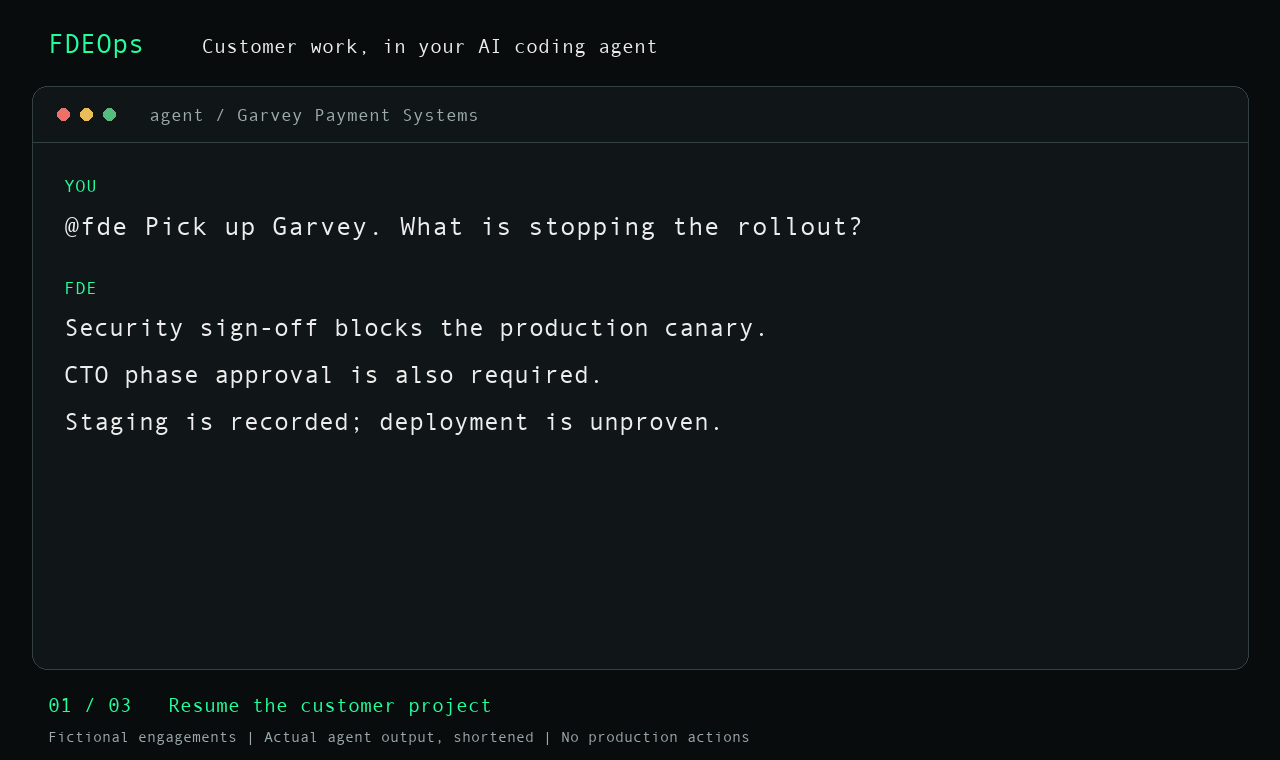
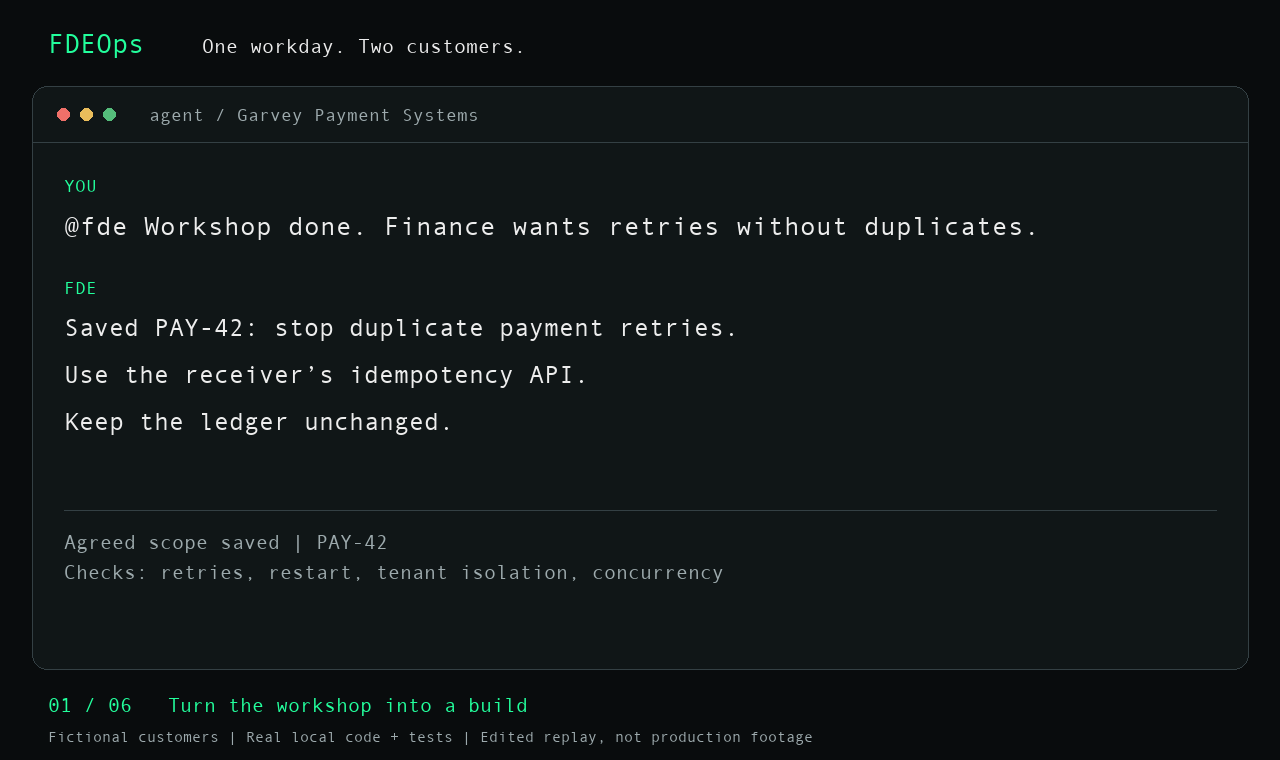
Show a full FDE workday with interruption and tested implementation
Expand the README animation into one coherent FDE workday: save the workshop scope, implement PAY-42, preserve a checkpoint before another customer meeting, return to verify the change, assess rollout readiness and save the next action.

The run actually edited a local retry adapter, saved and recovered Garvey records, read Kesterman without changing its records, and improved the supplied local tests from 3/7 to 7/7. The GIF uses shortened responses and evidence receipts. Fictional customers, staged playback, mock receiver and pending production approval are explicit. Include the runnable local fixture and full captured answer; no claim of production deployment or cross-session recovery.

Validation: independent trace and record comparison, independent seven-test fixture rerun, Chromium playback and frame inspection, repository check suite. No runtime feature or npm version change.

diff --git a/media/workday-fixture/retry.test.js b/media/workday-fixture/retry.test.js
@@ -1,0 +1,18 @@
+import test from 'node:test';
+import assert from 'node:assert/strict';
+import { createHandler } from './retry.js';
+function receiver() {
+ const rows = new Map(); let fail=false;
+ return { rows, failNext(){fail=true;},
+ async insert(event){if(fail){fail=false;throw Error('receiver unavailable');} const key=String(rows.size);rows.set(key,event);return {created:true};},
+ async insertOnce(key,event){if(fail){fail=false;throw Error('receiver unavailable');}if(rows.has(key))return {created:false};rows.set(key,event);return {created:true};}
+ };
+}
+const event={tenantId:'eu-retail',eventId:'evt-1042',amount:1200};
+test('first delivery writes one payment',async()=>{const s=receiver();await createHandler(s)(event);assert.equal(s.rows.size,1);});
+test('retry after a lost acknowledgement does not duplicate',async()=>{const s=receiver(),h=createHandler(s);await h(event);await h(event);assert.equal(s.rows.size,1);});
+test('deduplication survives handler restart',async()=>{const s=receiver();await createHandler(s)(event);await createHandler(s)(event);assert.equal(s.rows.size,1);});
+test('different tenants can use the same event ID',async()=>{const s=receiver(),h=createHandler(s);await h(event);await h({...event,tenantId:'uk-retail'});assert.equal(s.rows.size,2);});
+test('concurrent redelivery creates one entry',async()=>{const s=receiver(),h=createHandler(s);await Promise.all([h(event),h(event)]);assert.equal(s.rows.size,1);});
+test('receiver failure can be retried',async()=>{const s=receiver(),h=createHandler(s);s.failNext();await assert.rejects(h(event));await h(event);assert.equal(s.rows.size,1);});
+test('missing identity is rejected before write',async()=>{const s=receiver();await assert.rejects(createHandler(s)({amount:1200}));assert.equal(s.rows.size,0);});

diff --git a/bin/check.js b/bin/check.js
@@ -194,7 +194,7 @@ if (read('package.json').includes('postinstall')) {
 }
 
 const readme = read('README.md')
-if (!readme.includes('media/chat-demo.gif') || !readme.includes('media/chat-demo.md') || !readme.includes('Fictional customer records')) {
+if (!readme.includes('media/chat-demo.gif') || !readme.includes('media/chat-demo.md') || !readme.includes('Fictional customers')) {
   fail('README must include the chat walkthrough, text alternative and fictional-record disclosure')
 } else if (['chat-demo.gif', 'chat-demo.png', 'chat-demo.json', 'chat-demo.md', 'render-chat-demo.py'].some(name => !fs.existsSync(path.join(root, 'media', name)))) {
   fail('chat walkthrough must include rendered assets, text, source and renderer')

diff --git a/media/workday-fixture/retry.js b/media/workday-fixture/retry.js
@@ -1,0 +1,12 @@
+export function createHandler(store) {
+  return async event => {
+    const { tenantId, eventId } = event ?? {};
+    if (typeof tenantId !== 'string' || !tenantId.trim() ||
+        typeof eventId !== 'string' || !eventId.trim()) {
+      throw new Error('tenantId and eventId are required');
+    }
+    // The receiver owns atomic deduplication across retries and handler restarts.
+    const key = JSON.stringify([tenantId, eventId]);
+    return store.insertOnce(key, event);
+  };
+}

diff --git a/media/render-chat-demo.py b/media/render-chat-demo.py
@@ -13,7 +13,7 @@ def font(size): return ImageFont.truetype(FONT,size)
 def draw_scene(scene,index,reveal=True,typed=None):
  im=Image.new('RGB',(W,H),BG);d=ImageDraw.Draw(im)
  d.text((48,28),'FDEOps',font=font(27),fill=GREEN)
- d.text((202,34),'Customer work, in your AI coding agent',font=font(20),fill=FG)
+ d.text((202,34),'One workday. Two customers.',font=font(20),fill=FG)
  d.rounded_rectangle((32,86,1248,669),radius=15,fill=PANEL,outline='#344044',width=1)
  for x,c in [(57,'#ef7069'),(80,'#eabd5b'),(103,'#55bd7b')]:d.ellipse((x,108,x+12,120),fill=c)
  d.text((149,104),'agent / '+scene['customer'],font=font(18),fill=MUTED)
@@ -31,16 +31,22 @@ def draw_scene(scene,index,reveal=True,typed=None):
     assert y<625, (scene['customer'],y)
     d.text((64,y),line,font=font(25),fill=FG);y+=35
    y+=12
- elif typed is None:d.text((64,y),'Reading the customer record...',font=font(23),fill=MUTED)
- d.text((48,693),f"{index+1:02d} / 03   {scene['label']}",font=font(20),fill=GREEN)
- d.text((48,728),'Fictional engagements | Actual agent output, shortened | No production actions',font=font(15),fill=MUTED)
+  if scene.get('receipt'):
+   y=max(y+12,510)
+   d.line((64,y,1216,y),fill='#344044');y+=20
+   for line in scene['receipt'].split('\n'):
+    assert y<639, (scene['customer'],y)
+    d.text((64,y),line,font=font(20),fill=MUTED);y+=30
+ elif typed is None:d.text((64,y),scene.get('activity','Reading the customer record...'),font=font(23),fill=MUTED)
+ d.text((48,693),f"{index+1:02d} / {len(scenes):02d}   {scene['label']}",font=font(20),fill=GREEN)
+ d.text((48,728),'Fictional customers | Real local code + tests | Edited replay, not production footage',font=font(15),fill=MUTED)
  return im
 scenes=json.loads((ROOT/'media/chat-demo.json').read_text())['scenes']
 frames=[];dur=[]
 for n,s in enumerate(scenes):
  for end in range(4,len(s['prompt']),5):
   frames.append(draw_scene(s,n,False,s['prompt'][:end]));dur.append(60)
- frames.extend([draw_scene(s,n,False),draw_scene(s,n)]);dur.extend([500,8500])
+ frames.extend([draw_scene(s,n,False),draw_scene(s,n)]);dur.extend([350,s.get('hold_ms',6000)])
 
 draw_scene(scenes[0],0).save(ROOT/'media/chat-demo.png')
 frames[0].save(ROOT/'media/chat-demo.gif',save_all=True,append_images=frames[1:],duration=dur,loop=0,optimize=True)

diff --git a/media/chat-demo.md b/media/chat-demo.md
@@ -1,37 +1,91 @@
-# FDEOps in a conversation
+# One workday. Two customers.
 
-Use natural language in your AI coding agent. FDEOps retrieves the selected customer's context and helps prepare the next decision.
+An FDE turns a payments workshop into a scoped code change, pauses for a freight-customer meeting, then resumes testing and prepares the next release decision.
 
-This is a terminal-style replay, not a screen recording. It uses actual agent responses to fictional customer records, shortened in the GIF. It shows read-only preparation and temporary customer selection, not a production deployment or a persistent workspace switch.
+The GIF is a terminal-style replay of a scripted agent run, not a screen recording or customer production footage. The code edit, local tests, record saves and customer-context reads actually ran. Customer records are fictional. Responses are shortened; typing and pauses are staged.
 
-## Conversation
+## 1. Turn the workshop into a build
 
-### Resume the project
+> @fde Workshop done. Finance wants retries without duplicates.
 
-> @fde Pick up Garvey. What is stopping the rollout?
+Saved PAY-42: stop duplicate payment retries. Use the receiver’s idempotency API. Keep the ledger unchanged.
 
-In the fictional snapshot, security sign-off blocks the production canary; CTO phase approval is also required. Staging is recorded, but deployment is unproven. The finance outcome remains unmeasured and unaccepted.
+Agreed scope saved | PAY-42. Checks: retries, restart, tenant isolation, concurrency.
 
-### Prepare the release review
+## 2. Build, then preserve the next step
 
-> @fde What should I take to the release review?
+> @fde Start PAY-42. I have a customer meeting in five minutes.
 
-Bring the staging-demo evidence, security-ticket status, CTO approval status, and rollback plan. Flag missing trial measurements. Acceptance requires a full week of EU failures replayed, zero manual reprocessing in the audit log, and June Porter’s written acceptance - not merely the proposed one-night trial.
+Changed retry.js: validate identity and deduplicate by tenant + event ID. Checkpoint saved. Next: run the full local test suite.
 
-### Switch customers
+Baseline: 3 passed, 4 failed. Change saved | Post-change verification pending.
 
-> @fde Switch to Kesterman. What needs my attention?
+## 3. Handle the other customer’s meeting
 
-Temporary read-only selection; no persistent switch or saves. The snapshot prioritizes Karen’s write-back race review and Denise’s scope/demo decision: three additions, unchanged timeline. Preserve the carrier-assignment macro and Nashville workaround. Sponsor dissatisfaction is unverified; production requires Denise’s approval. Reported 98.8% parity does not establish acceptance.
+> @fde Switch to Kesterman. Brief me for Denise’s meeting.
 
-## Source and reproduction
+Decision for Denise: defer Nashville role views, or trade scope and timeline. Reconfirm the demo.
 
-The responses were captured with Codex CLI 0.154.0 using FDEOps 5.1.10 and the repository's [Garvey](../examples/garvey-payments/) and [Kesterman](../examples/kesterman-freight/) records as historical scenario snapshots. The agent used sanitized CLI packets; no customer system was connected. An initial record-path lookup failed and was corrected before the responses shown here. Tool calls are omitted; typing and pauses are staged for readability. This is one illustrative run, not a reliability benchmark.
+Kesterman context loaded | Read-only, temporary selection. Garvey’s unfinished work preserved.
 
-The displayed text is in [chat-demo.json](chat-demo.json). With Python, Pillow and a local monospace font:
+## 4. Return to the exact next action
+
+> @fde Back to Garvey. Continue where we stopped.
+
+Recovered PAY-42 and confirmed the code is unchanged. All 7 local tests pass. The customer receiver still needs a staging check.
+
+Tests: 7 | Passed: 7 | Failed: 0. Environment: local receiver mock.
+
+## 5. Separate passing tests from rollout approval
+
+> @fde Tests pass. Can we roll this out?
+
+Not yet. Replay retries against the durable receiver on customer staging. Security, CTO approval and finance acceptance are still pending.
+
+Local checks passed | Customer staging not tested. No production action taken.
+
+## 6. Leave tomorrow’s work ready to resume
+
+> @fde Save where we are for tomorrow.
+
+Saved the implementation, test evidence and blockers. Next: arrange the authorised staging replay.
+
+Checkpoint saved and verified. Saved next action: arrange staging replay.
+
+## Full captured answer
+
+Fictional scenario  -  edited terminal replay. Local work actually performed using the FDEOps skill.
+
+1. Saved PAY-42: tenant-scoped `insertOnce`, no ledger redesign. Checks cover duplicates, restart, tenant isolation, concurrency, failure retry, and missing identity. Production requires security, CTO approval, and finance acceptance.
+
+2. Baseline: 3/7 passed. Implemented identity validation and tenant-scoped `insertOnce` in `retry.js`. Saved a recoverable checkpoint before post-change verification; next action recorded: run the full local suite.
+
+3. Read Kesterman through temporary command scope; no customer writes or persistent binding changes. Denise must decide whether to defer Nashville role views or trade scope/timeline, and reconfirm the demo.
+
+4. Recovered Garvey’s checkpoint through CLI; confirmed preserved file hashes. Full `npm test`: 7/7 passed. The in-memory receiver mock does not verify durable persistence or customer integration.
+
+5. No rollout: only local mocked evidence exists; staging and production access are unavailable. Next check: durable-receiver staging replay, followed by security/CTO approvals and finance acceptance. Nothing deployed.
+
+6. Saved and verified Garvey checkpoint `c6c423a`: implementation hash, exact baseline and seven passing checks, pending staging, security/CTO approvals, and finance acceptance. Next: arrange authorized staging replay against the durable receiver.
+
+## Evidence and reproduction
+
+The run used Codex CLI 0.154.0 with FDEOps 5.1.10, the public Garvey and Kesterman example records, and an explicitly approved fictional PAY-42 workshop decision. The exact model identifier was not recorded. Sanitized CLI reads selected each customer; selection was temporary, not a persistent workspace rebind. Only Garvey’s approved records and the local implementation were changed. The initial customer-path lookup was corrected before record access.
+
+The baseline implementation called `store.insert(event)` and passed 3 of 7 tests. The edited [retry handler](workday-fixture/retry.js) uses the receiver’s `insertOnce` API and passes all seven [checks](workday-fixture/retry.test.js). Run them without installing dependencies:
+
+```bash
+node --test media/workday-fixture/retry.test.js
+```
+
+The receiver is an in-memory mock. Atomic durable writes are an assumed receiver contract, not verified infrastructure. This run does not demonstrate real staging integration, production deployment, customer acceptance, cross-session recovery or a reliability rate. The customer interruption happened within one agent session; checkpoints were saved and read back.
+
+## Render the animation
+
+With Python, Pillow and a monospace font:
 
 ```bash
 python3 media/render-chat-demo.py --font /path/to/monospace.ttf
 ```
 
-This renders the GIF and a [still image](chat-demo.png). The text above is the accessible alternative. The separate [CLI recording](../docs/USAGE.md) shows the underlying record commands.
+The [scene text](chat-demo.json), [still image](chat-demo.png) and this transcript provide alternatives to watching the loop. The detailed [CLI recording](../docs/USAGE.md) remains available.

diff --git a/README.md b/README.md
@@ -12,9 +12,9 @@ FDEOps brings that context into the work, from the first meeting to a system the
 
 [Get started](#quick-start) · [What it helps with](#three-things-it-helps-with) · [Choose a skill](#task-skills) · [Data boundaries](#your-records-your-control) · [Docs](docs/README.md)
 
-![FDEOps conversation: resume Garvey’s rollout, prepare its release review, then switch to Kesterman’s project](media/chat-demo.gif)
+![FDEOps workday: workshop, code change, customer meeting, resumed tests and saved rollout checklist](media/chat-demo.gif)
 
-*Fictional customer records. Actual agent responses, shortened and replayed. [Read the conversation](media/chat-demo.md) · [View a still](media/chat-demo.png).*
+*Fictional customers. Real local code, tests and saved checkpoints. Edited agent replay; no production deployment. [Read the conversation](media/chat-demo.md) · [View a still](media/chat-demo.png).*
 
 ## Quick start
 
